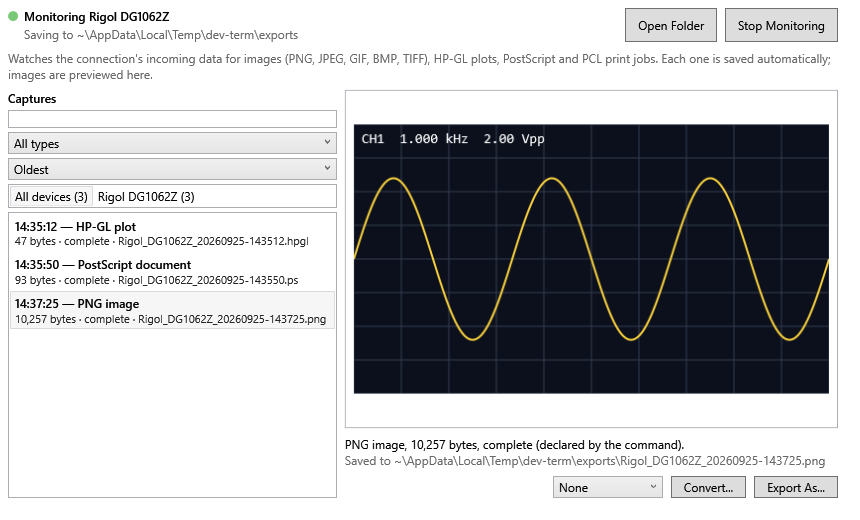
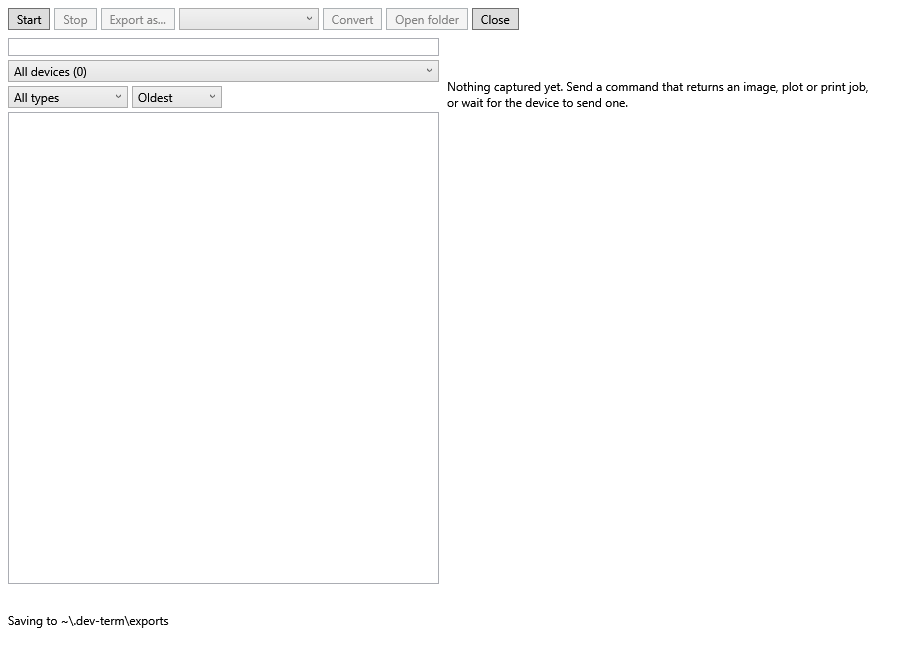
Capture the WPF converter tools and stream monitor windows for the user guide

diff --git a/src/Applications/OoBDev.DevTerm.Wpf.Tests/WpfScreenshot.cs b/src/Applications/OoBDev.DevTerm.Wpf.Tests/WpfScreenshot.cs
@@ -1,5 +1,7 @@
 using System;
 using System.IO;
+using System.Threading;
+using System.Windows.Threading;
 using System.Windows;
 using System.Windows.Media;
 using System.Windows.Media.Imaging;
@@ -25,6 +27,56 @@ internal static class WpfScreenshot
 
     /// <summary>Renders <paramref name="window"/> and syncs it over <paramref name="path"/>; returns true when the committed image was replaced.</summary>
     public static bool Save(Window window, string path) => GuideImage.Write(path, temp => Render(window, temp));
+
+    /// <summary>Builds a window on a fresh STA thread, shows it off-screen, captures it as <paramref name="imageName"/> in the DevTerm user guide images folder, and closes it.</summary>
+    public static void Capture(Func<Window> build, string imageName, double width = 900, double height = 650)
+    {
+        var path = Path.Combine(RepoRoot(), "docs", "applications", "devterm", "user-guide", "images", imageName);
+        RunOnSta(() =>
+        {
+            var window = build();
+            ShowOffScreen(window, width, height);
+            Dispatcher.CurrentDispatcher.Invoke(() => { }, DispatcherPriority.Background);
+            window.UpdateLayout();
+            Save(window, path);
+            window.Close();
+        });
+    }
+
+    /// <summary>Runs <paramref name="action"/> on a new STA thread and rethrows its failure as an assertion failure.</summary>
+    public static void RunOnSta(Action action)
+    {
+        Exception? failure = null;
+        var thread = new Thread(() =>
+        {
+            try
+            {
+                action();
+            }
+            catch (Exception ex)
+            {
+                failure = ex;
+            }
+        });
+        thread.SetApartmentState(ApartmentState.STA);
+        thread.Start();
+        thread.Join();
+        if (failure is not null)
+        {
+            throw new Microsoft.VisualStudio.TestTools.UnitTesting.AssertFailedException(failure.Message, failure);
+        }
+    }
+
+    private static string RepoRoot()
+    {
+        var dir = new DirectoryInfo(AppContext.BaseDirectory);
+        while (dir is not null && !File.Exists(Path.Combine(dir.FullName, "GitVersion.yml")))
+        {
+            dir = dir.Parent;
+        }
+
+        return dir?.FullName ?? throw new InvalidOperationException("repo root not found");
+    }
 
     private static void Render(Window window, string path)
     {

diff --git a/src/Applications/OoBDev.DevTerm.Wpf.Tests/ToolWindowScreenshotTests.cs b/src/Applications/OoBDev.DevTerm.Wpf.Tests/ToolWindowScreenshotTests.cs
@@ -1,0 +1,20 @@
+using DevTermApp;
+using Microsoft.VisualStudio.TestTools.UnitTesting;
+using OoBDev.DevTerm.Configuration;
+
+namespace OoBDev.DevTerm.Wpf.Tests;
+
+/// <summary>Captures the tool windows for the user guide.</summary>
+[DoNotParallelize]
+[TestCategory("DevLocal")]
+[TestClass]
+public sealed class ToolWindowScreenshotTests
+{
+    [TestMethod]
+    public void ConverterTools_Empty_IsCaptured() =>
+        WpfScreenshot.Capture(() => new ConverterToolsWindow(new ConverterToolsDialogViewModel(new ConverterToolsEditor([]))), "wpf-converter-tools.png", 700, 450);
+
+    [TestMethod]
+    public void StreamMonitor_Empty_IsCaptured() =>
+        WpfScreenshot.Capture(() => new StreamMonitorWindow(new StreamMonitorDialogViewModel(new StreamMonitor())), "wpf-stream-monitor.png");
+}

diff --git a/BACKLOG.md b/BACKLOG.md
@@ -12,14 +12,14 @@ GitHub is no longer the primary repository (local bare repo `origin`), so nothin
 
 Owner: all protocols and features of dev-term must exist here. Done means what dev-term has today; its own future plans are in section 8. Status, slices and leftovers: [status.md](docs/design/DevTermParity/status.md); matrix: [README](docs/design/DevTermParity/README.md); restructure steps 0 to 6 are done.
 
-- [ ] None of the WPF windows were viewed running: capture the remaining windows with `WpfScreenshot` (done: connection editor) and migrate the layout review tests ([status.md](docs/design/DevTermParity/status.md)).
+- [ ] None of the WPF windows were viewed running: capture the remaining windows with `WpfScreenshot` (done: connection editor, converter tools, stream monitor) and migrate the layout review tests ([status.md](docs/design/DevTermParity/status.md)).
 - [ ] **DevTerm docs into living documents** (owner, 2026-10-30): fold the imported design, spec and device folders in `docs/applications/devterm/` into the living documents feature by feature, move reusable designs (transports, presenters, UI definitions, manifests, session logging) to `docs/design/<Feature>/`, then delete each folder per [the map](docs/migration/devterm-docs-map.md); point the generated Tui guide output at `docs/applications/devterm/user-guide`.
 - [ ] Port dev-term's coding-standards tests (device docs, one test category per test; snapshots in `docs/applications/devterm/source/`) and wire its containers (`containers/devterm`: mosquitto, ser2net, loopback-device, rabbitmq TLS and STOMP) into `containers/testing` with the `add-integration-service` skill.
 - [ ] **Surroundings review of the other migrated projects** (owner, 2026-10-30; dev-term is done, see [the review](docs/migration/devterm-surroundings-review-2026-10-30.md)): repeat for BinaryDataDecoders and each harvest project: guide, `.claude` configuration, docs, open questions, TODO and BACKLOG, UIs, tests, scripts and plans, each migrated or rejected with a reason; application docs go to `docs/applications/{app-name}/`.
 - [ ] Bench hardware ([list](docs/how-tos/test-hardware.md)): write Hardware tests for the Korad KA3005P/KA6003P (settings exist in `src/.runsettings`); move the Tui DevLocal tests off dev-term's `RealTcpDevice*` names. The identify tests for the HP 34401A, TDS2024 and both 2230s exist (`BenchInstrumentTests`; the second 2230 is offline).
 - [ ] **Generated guides** (owner, 2026-10-30): [design](docs/design/GeneratedGuides/README.md); journey-driven user guides and screenshots for Tui, WPF and Web written straight into `docs/applications/{app}/user-guide`, API guides from OpenAPI, AsyncAPI and ksy files by MSTest scripts, JavaScript projects as `.esproj` with `npm test`.
 - Find why a full Tui Unit run rewrites `tui-manifest-editor*`, `tui-plugin-approval*` images and their `.txt` captures even through `image-mask sync` (nondeterministic content or a missing zone); then add zones.
-- Capture the remaining WPF windows through `WpfScreenshot`/`GuideImage` (connection editor done); Tui and Web are routed; see [GeneratedGuides](docs/design/GeneratedGuides/README.md).
+- Capture the remaining WPF windows through `WpfScreenshot`/`GuideImage` (connection editor, converter tools and stream monitor done); Tui and Web are routed; see [GeneratedGuides](docs/design/GeneratedGuides/README.md).
 - Generated user guides for the `src/Tools` command-line tools (journeys, captured output, screenshots where there is a UI); later, after the application guides; see [GeneratedGuides](docs/design/GeneratedGuides/README.md).
 - [ ] Docs check for imported material: every file under `docs/applications/{app}/` is linked from its README or listed in the transient map in `docs/migration/` (extend `OoBDev.Docs.Tests`; widen its default scope to `docs/applications`).
 - [ ] Move `FakeDeviceConfigEditor`, `FakeTransport` and `ManualTimeProvider` into `OoBDev.DevTerm.TestUtilities` ([plan](docs/design/DevTermParity/test-utilities-plan.md)); each needs Core references.

diff --git a/docs/changes/devterm-wpf-screenshot-capture-2026-10-30.md b/docs/changes/devterm-wpf-screenshot-capture-2026-10-30.md
@@ -4,9 +4,10 @@
 
 - `WpfScreenshot` (Wpf.Tests) shows a window far off-screen and renders it with `RenderTargetBitmap`, writing through `GuideImage`, so a committed guide image is replaced only when the masked capture differs.
 - `ConnectionEditorScreenshotTests` (DevLocal) captures the connection editor for tcp, serial and loopback into `docs/applications/devterm/user-guide/images/wpf-device-profiles-*.png`; a second run leaves the images byte-identical.
+- `ToolWindowScreenshotTests` (DevLocal) captures the converter tools and the empty stream monitor (`wpf-converter-tools.png`, `wpf-stream-monitor.png`); `WpfScreenshot.Capture` builds a window on an STA thread, shows it off-screen, saves it through `GuideImage` and closes it.
 - `OoBDev.DevTerm.Wpf.Tests` references `OoBDev.DevTerm.TestUtilities`.
 
 ## Not done
 
-- The other windows (main shell, playback, converter tools, control panels, manifest editor, themes, routing, stream monitor) are not captured yet, nor dev-term's layout review tests.
+- The other windows (main shell, playback, control panels, manifest editor, themes, routing, color and expression pickers) are not captured yet, nor dev-term's layout review tests.
 - The test profile folder still comes from `Path.GetTempPath()` (`ITempFileFactory` makes files, not folders).

diff --git a/TODO.md b/TODO.md
@@ -8,7 +8,7 @@ Keep this file short (about 15 one-line items). When an item starts, move it her
 
 ## In progress
 
-- [ ] **DevTerm parity, WPF shell**: all five slices are built; left is viewing the windows running (`WpfScreenshot` is migrated and the connection editor captured; the other windows and the layout review are left); detail in [status.md](docs/design/DevTermParity/status.md).
+- [ ] **DevTerm parity, WPF shell**: all five slices are built; left is viewing the windows running (`WpfScreenshot` is migrated and the connection editor, converter tools and stream monitor captured; the other windows and the layout review are left); detail in [status.md](docs/design/DevTermParity/status.md).
 
 ## Next
 
